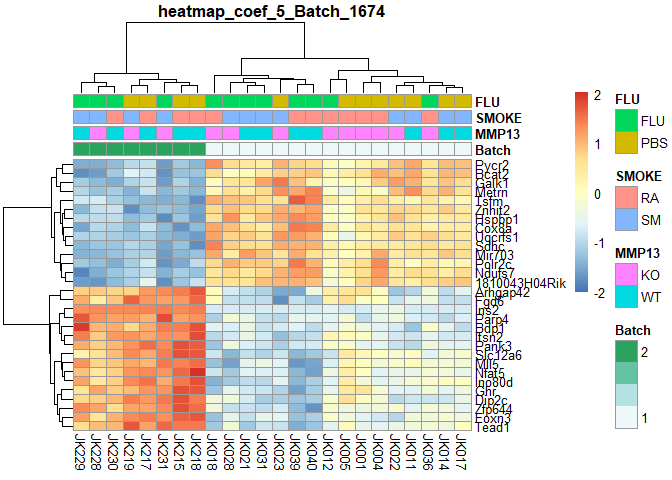
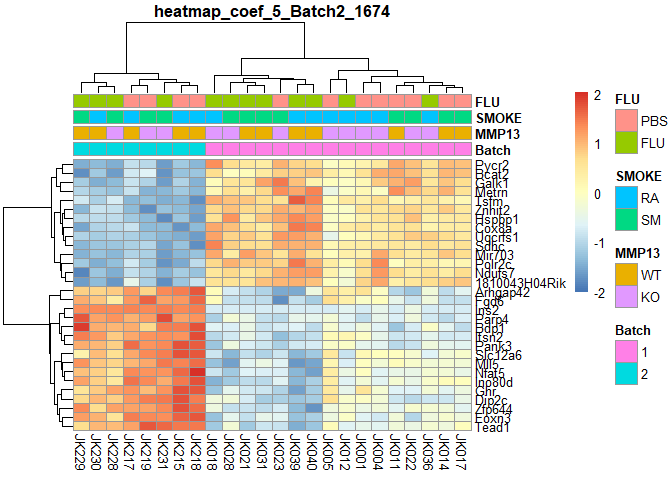
markdown after set batch (1,2) factor.

diff --git a/README.md b/README.md
@@ -6,10 +6,11 @@ May 3, 2019
 -   [Read the raw count-table and sample annotation files](#read-the-raw-count-table-and-sample-annotation-files)
 -   [Preprocess the input data](#preprocess-the-input-data)
 -   [Principal Component Analysis](#principal-component-analysis)
--   [Fit generalized linear model using edgeR](#fit-generalized-linear-model-using-edger)
--   [Output filtered gene counts and/or their names to console or data files](#output-filtered-gene-counts-andor-their-names-to-console-or-data-files)
--   [Plot heatmap with top genes found significant for each factor](#plot-heatmap-with-top-genes-found-significant-for-each-factor)
--   [Plot significant gene counts of each major factor in a Venn diagram](#plot-significant-gene-counts-of-each-major-factor-in-a-venn-diagram)
+-   [Perform pairwise comparisons](#perform-pairwise-comparisons)
+-   [Fit generalized linear model](#fit-generalized-linear-model)
+    -   [Output filtered gene counts and/or their names to console or data files](#output-filtered-gene-counts-andor-their-names-to-console-or-data-files)
+    -   [Plot heatmap with top genes found significant for each factor](#plot-heatmap-with-top-genes-found-significant-for-each-factor)
+    -   [Plot significant gene counts of each major factor in a Venn diagram](#plot-significant-gene-counts-of-each-major-factor-in-a-venn-diagram)
 
 Read the raw count-table and sample annotation files
 ====================================================
@@ -56,6 +57,10 @@ head(c) # count table overview
 ``` r
 a=read.csv("SampleAnnotation2Batches.csv",header=T,stringsAsFactors=F,row.names=1)
 a$SingleFactor=paste(a$Batch,a$MMP13,a$SMOKE,a$FLU,sep="_") # merge factors into one for some further analysis
+a$Batch=factor(a$Batch,levels=c(1,2))
+a$MMP13=factor(a$MMP13,levels=c("WT","KO"))
+a$FLU=factor(a$FLU,levels=c("PBS","FLU"))
+a$SMOKE=factor(a$SMOKE,levels=c("RA","SM"))
 head(a) # sample annotation overview
 ```
 
@@ -73,7 +78,7 @@ Preprocess the input data
 ``` r
 if (!require("edgeR",quietly=T)) BiocManager::install("edgeR")
 library(edgeR)
-y=DGEList(counts=c,samples=a)
+y=DGEList(counts=c,samples=a,group=a$SingleFactor)
 keep <- rowSums(cpm(y)>1) >= 2
 y <- y[keep, , keep.lib.sizes=FALSE]
 y <- calcNormFactors(y)
@@ -127,16 +132,42 @@ plotellipses(s.pca)
 
 ![](README_files/figure-markdown_github/pca-2.png)
 
-Fit generalized linear model using edgeR
-========================================
+Perform pairwise comparisons
+============================
+
+``` r
+y1 <- estimateDisp(y,model.matrix(~SingleFactor,data=a))
+pair=c("2_WT_RA_PBS","1_KO_RA_PBS") #  c("A","B") = B - A
+
+tt=topTags(exactTest(y1, pair),n=9999999,sort.by="none") # select all with original order
+# write.csv(tt,paste0("Pair_",paste(pair,collapse=" vs "),".csv")) # save to local file
+
+if (!require("ggplot2",quietly=T)) install.packages("ggplot2")
+library(ggplot2)
+attach(tt$table)
+tt$table$sig=ifelse(PValue<0.05&abs(logFC)>1,logFC,0)
+p = ggplot(tt$table,aes(logFC,-log10(PValue)))+
+  geom_point(aes(col=sig))+
+  scale_colour_gradient2(low="blue",mid="black",high="red")
+p
+```
+
+![](README_files/figure-markdown_github/edgeRpair-1.png)
+
+``` r
+detach(tt$table)
+```
+
+Fit generalized linear model
+============================
 
 ``` r
 # design=model.matrix(~MMP13+SMOKE+FLU,data=a)
 # design=model.matrix(~MMP13*SMOKE*FLU,data=a)
 design=model.matrix(~MMP13*SMOKE*FLU+Batch,data=a)
 # design=model.matrix(~MMP13*SMOKE*FLU*Batch,data=a); design=design[,-16]
-y <- estimateDisp(y,design)
-fit <- glmQLFit(y, design)
+y2 <- estimateDisp(y,design)
+fit <- glmQLFit(y2, design)
 
 allList=function(cf){ # select complete unordered test result regarding each coefficient
    dt=as.data.frame(topTags(glmQLFTest(fit,coef=cf),n=999999,sort.by="none"))
@@ -147,7 +178,7 @@ allList=function(cf){ # select complete unordered test result regarding each coe
 ```
 
 Output filtered gene counts and/or their names to console or data files
-=======================================================================
+-----------------------------------------------------------------------
 
 ``` r
 # functions that select stats on each factor
@@ -178,25 +209,25 @@ for (i in 2:ncol(design)){ # uncomment following lines to enable the outputs
 }
 ```
 
-    ## MMP13WT Counts:
-    ## 896 
-    ## SMOKESM Counts:
-    ## 68 
-    ## FLUPBS Counts:
-    ## 0 
-    ## Batch Counts:
-    ## 1674 
-    ## MMP13WT:SMOKESM Counts:
+    ## MMP13KO Counts:
     ## 1 
-    ## MMP13WT:FLUPBS Counts:
+    ## SMOKESM Counts:
+    ## 0 
+    ## FLUFLU Counts:
+    ## 510 
+    ## Batch2 Counts:
+    ## 1674 
+    ## MMP13KO:SMOKESM Counts:
+    ## 0 
+    ## MMP13KO:FLUFLU Counts:
     ## 3 
-    ## SMOKESM:FLUPBS Counts:
-    ## 699 
-    ## MMP13WT:SMOKESM:FLUPBS Counts:
+    ## SMOKESM:FLUFLU Counts:
+    ## 0 
+    ## MMP13KO:SMOKESM:FLUFLU Counts:
     ## 2
 
 Plot heatmap with top genes found significant for each factor
-=============================================================
+-------------------------------------------------------------
 
 ``` r
 if (!require("pheatmap",quietly=T)) install.packages("pheatmap")
@@ -209,7 +240,7 @@ plotPheatmap=function(cf,clus_col=T,pdf=T){
    d=as.data.frame(logcpm[row.names(filterTop(cf)),])
    outfile=gsub(":","+",paste("heatmap","coef",i,colnames(design)[i],filterCount(cf),sep="_"))
    if (pdf) pdf(paste0(outfile,".pdf"),width=9,height=6)
-   pheatmap(d,scale="row",annotation_col=order[,c(1,2:4)],cluster_cols=clus_col,main=outfile)
+   pheatmap(d,scale="row",annotation_col=order[,1:4],cluster_cols=clus_col,main=outfile)
    if (pdf) dev.off()
 }
 for (i in 2:ncol(design)){
@@ -217,8 +248,8 @@ for (i in 2:ncol(design)){
 }
 ```
 
-    ## MMP13WT top30 :
-    ## MMP13WT Counts:
+    ## MMP13KO top30 :
+    ## MMP13KO Counts:
 
 ![](README_files/figure-markdown_github/heatmap-1.png)
 
@@ -227,38 +258,38 @@ for (i in 2:ncol(design)){
 
 ![](README_files/figure-markdown_github/heatmap-2.png)
 
-    ## FLUPBS top30 :
-    ## FLUPBS Counts:
+    ## FLUFLU top30 :
+    ## FLUFLU Counts:
 
 ![](README_files/figure-markdown_github/heatmap-3.png)
 
-    ## Batch top30 :
-    ## Batch Counts:
+    ## Batch2 top30 :
+    ## Batch2 Counts:
 
 ![](README_files/figure-markdown_github/heatmap-4.png)
 
-    ## MMP13WT:SMOKESM top30 :
-    ## MMP13WT:SMOKESM Counts:
+    ## MMP13KO:SMOKESM top30 :
+    ## MMP13KO:SMOKESM Counts:
 
 ![](README_files/figure-markdown_github/heatmap-5.png)
 
-    ## MMP13WT:FLUPBS top30 :
-    ## MMP13WT:FLUPBS Counts:
+    ## MMP13KO:FLUFLU top30 :
+    ## MMP13KO:FLUFLU Counts:
 
 ![](README_files/figure-markdown_github/heatmap-6.png)
 
-    ## SMOKESM:FLUPBS top30 :
-    ## SMOKESM:FLUPBS Counts:
+    ## SMOKESM:FLUFLU top30 :
+    ## SMOKESM:FLUFLU Counts:
 
 ![](README_files/figure-markdown_github/heatmap-7.png)
 
-    ## MMP13WT:SMOKESM:FLUPBS top30 :
-    ## MMP13WT:SMOKESM:FLUPBS Counts:
+    ## MMP13KO:SMOKESM:FLUFLU top30 :
+    ## MMP13KO:SMOKESM:FLUFLU Counts:
 
 ![](README_files/figure-markdown_github/heatmap-8.png)
 
 Plot significant gene counts of each major factor in a Venn diagram
-===================================================================
+-------------------------------------------------------------------
 
 ``` r
 if (!require("systemPipeR",quietly=T)) BiocManager::install("systemPipeR")
@@ -272,3 +303,5 @@ vennPlot(overLapper(setlist,type="vennsets"))
 ```
 
 ![](README_files/figure-markdown_github/venn-1.png)
+
+Data credits: Jeanine D'Armiento, Monica Goldklang, Kyle Stearns; Columbia University Medical Center
